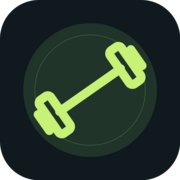
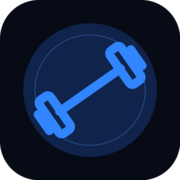
feat: match prototype session picker

diff --git a/frontend/src/style.css b/frontend/src/style.css
@@ -1,22 +1,22 @@
 :root {
   font-family: 'DM Sans', sans-serif;
   color: #f5f6f4;
-  background: #0a0d12;
+  background: #05080e;
   font-synthesis: none;
 }
 * { box-sizing: border-box; }
-html { background: #0a0d12; }
-body { margin: 0; color: #f5f6f4; background: #0a0d12; }
+html { background: #05080e; }
+body { margin: 0; color: #f5f6f4; background: #05080e; }
 button, input, textarea { font: inherit; }
 button { cursor: pointer; -webkit-tap-highlight-color: transparent; }
 h1, h2, h3, strong, .app-header-logo { font-family: Outfit, sans-serif; }
 h1, h2, h3 { letter-spacing: -.04em; }
-button:focus-visible, input:focus-visible, textarea:focus-visible { outline: 2px solid #c7f276; outline-offset: 3px; }
+button:focus-visible, input:focus-visible, textarea:focus-visible { outline: 2px solid #3685ff; outline-offset: 3px; }
 
-.app-shell { min-height: 100dvh; background: #0a0d12; }
-.main-column { width: min(100%, 560px); min-height: 100dvh; margin: auto; background: #10151b; box-shadow: 0 0 90px #0006; }
+.app-shell { min-height: 100dvh; background: #05080e; }
+.main-column { width: min(100%, 560px); min-height: 100dvh; margin: auto; background: radial-gradient(circle at 55% 14%, #10213d 0, #080e18 30%, #04070c 70%); box-shadow: 0 0 90px #0009; }
 .app-header {
-  height: calc(66px + env(safe-area-inset-top));
+  height: calc(72px + env(safe-area-inset-top));
   padding: env(safe-area-inset-top) 20px 0;
   display: flex;
   align-items: center;
@@ -24,22 +24,23 @@ button:focus-visible, input:focus-visible, textarea:focus-visible { outline: 2px
   position: sticky;
   top: 0;
   z-index: 10;
-  background: #10151bec;
-  border-bottom: 1px solid #252e36;
+  background: #050a13d9;
+  border-bottom: 0;
   -webkit-backdrop-filter: blur(18px);
   backdrop-filter: blur(18px);
 }
-.app-header-logo { display: flex; align-items: center; gap: 10px; font-size: 23px; font-weight: 800; letter-spacing: -.055em; }
-.app-header-logo > span:last-child > span { color: #c7f276; }
-.brand-mark { width: 36px; height: 36px; display: grid; place-items: center; border-radius: 11px; background: #c7f276; color: #122017; }
+.app-header-logo { display: flex; align-items: center; gap: 7px; font-size: 20px; font-weight: 800; letter-spacing: -.055em; }
+.app-header-logo > span:last-child > span { color: #3186ff; }
+.brand-mark { width: 29px; height: 36px; display: grid; place-items: center; color: #3186ff; }
+.profile-mark { width: 38px; height: 38px; display: grid; place-items: center; border: 1px solid #374257; border-radius: 50%; color: #e1e9f3; }
 .header-back { width: 42px; height: 42px; border: 1px solid #35404a; border-radius: 12px; background: #1b222a; color: #edf1ed; display: grid; place-items: center; }
 .header-back:active { transform: scale(.96); }
 .app-header-title { font-family: Outfit, sans-serif; font-size: 15px; font-weight: 700; }
 .header-end { width: 42px; }
 .content { padding: 23px 20px calc(36px + env(safe-area-inset-bottom)); }
-.home-content { padding-top: 0; padding-bottom: calc(15px + env(safe-area-inset-bottom)); }
+.home-content { padding-top: 0; padding-bottom: calc(22px + env(safe-area-inset-bottom)); }
 .loading { min-height: 50dvh; display: grid; place-items: center; text-align: center; color: #aab4b4; font-size: 14px; }
-.eyebrow { margin-bottom: 10px; color: #c7f276; font-size: 10px; font-weight: 900; letter-spacing: .17em; }
+.eyebrow { margin-bottom: 10px; color: #3989ff; font-size: 10px; font-weight: 900; letter-spacing: .17em; }
 .muted { color: #9ca8af !important; }
 .app-alert { background: #3c292e; border: 1px solid #7c4850; color: #ffd3d7; border-radius: 12px; font-size: 13px; }
 .icon-button { border: 0; background: transparent; color: #aab5bc; display: inline-grid; place-items: center; min-width: 44px; min-height: 44px; border-radius: 10px; }
@@ -47,42 +48,40 @@ button:focus-visible, input:focus-visible, textarea:focus-visible { outline: 2px
 .icon-button:disabled { opacity: .35; }
 .btn { display: inline-flex; align-items: center; justify-content: center; gap: 9px; min-height: 48px; border-radius: 12px; padding: 11px 15px; font-size: 13px; font-weight: 800; }
 .btn:disabled { opacity: .55; }
-.btn-accent { border: 1px solid #c7f276; background: #c7f276; color: #172119; }
-.btn-accent:active, .btn-accent:hover { border-color: #d8ff92; background: #d8ff92; color: #172119; }
+.btn-accent { border: 1px solid #3387ff; background: #3387ff; color: #fff; }
+.btn-accent:active, .btn-accent:hover { border-color: #66a5ff; background: #66a5ff; color: #fff; }
 .btn-ghost { border: 1px solid #35404b; background: #222b34; color: #eef2f1; }
 .btn-ghost:active, .btn-ghost:hover { background: #303b46; color: #fff; }
 .btn-sm { min-height: 42px; padding: 9px 13px; font-size: 12px; }
 
-.entry-screen { min-height: calc(100dvh - 66px - env(safe-area-inset-top) - env(safe-area-inset-bottom)); display: flex; flex-direction: column; }
-.entry-intro { padding: clamp(28px, 5dvh, 55px) 3px 23px; }
-.entry-kicker { display: inline-flex; align-items: center; gap: 8px; color: #bbcfb0; font-size: 10px; font-weight: 900; letter-spacing: .15em; }
-.entry-kicker-dot { width: 7px; height: 7px; border-radius: 50%; background: #c7f276; box-shadow: 0 0 12px #bdec70; }
-.entry-intro h1 { margin: 20px 0 12px; font-size: clamp(42px, 11vw, 58px); line-height: .98; font-weight: 700; letter-spacing: -.065em; }
-.entry-intro h1 em { font-style: normal; color: #c7f276; }
-.entry-intro p { color: #a8b2b9; margin: 0; font-size: 14px; }
-.entry-options { display: grid; gap: 13px; }
-.entry-option { position: relative; overflow: hidden; min-height: 198px; width: 100%; border-radius: 22px; border: 1px solid; text-align: left; padding: 20px 21px 17px; color: #f8faf6; display: flex; flex-direction: column; justify-content: space-between; isolation: isolate; transition: transform .18s, border-color .18s; }
+.entry-screen { min-height: calc(100dvh - 72px - env(safe-area-inset-top) - env(safe-area-inset-bottom)); display: flex; flex-direction: column; }
+.entry-intro { padding: clamp(24px, 4dvh, 38px) 0 26px; text-align: center; }
+.entry-kicker { color: #a4afc2; font-size: 9px; font-weight: 800; letter-spacing: .25em; }
+.entry-intro h1 { margin: 9px 0 4px; font-size: clamp(39px, 11vw, 51px); line-height: 1.02; font-weight: 800; letter-spacing: -.07em; }
+.entry-intro h1 span { color: #3186ff; }
+.entry-intro p { margin: 0; color: #aab5c5; font-size: 12px; }
+.entry-options { display: grid; gap: 15px; }
+.entry-option { position: relative; isolation: isolate; overflow: hidden; display: flex; flex-direction: column; justify-content: space-between; width: 100%; min-height: clamp(180px, 24dvh, 210px); padding: 24px 19px 18px; border: 1.5px solid; border-radius: 21px; color: #fff; text-align: left; background-size: cover; background-position: center; box-shadow: 0 16px 30px #0009; transition: transform .18s ease, box-shadow .18s ease; }
 .entry-option:active { transform: scale(.985); }
-.entry-option::before, .entry-option::after { content: ''; position: absolute; border-radius: 50%; z-index: -1; pointer-events: none; }
-.entry-option::before { width: 210px; height: 210px; right: -96px; top: -120px; border: 1px solid currentColor; opacity: .17; }
-.entry-option::after { width: 150px; height: 150px; right: -64px; top: -82px; border: 1px solid currentColor; opacity: .23; }
-.entry-training { background: linear-gradient(125deg, #293c2d, #1b2925 62%, #17201d); border-color: #59734b; }
-.entry-history { background: linear-gradient(125deg, #302e48, #23243c 62%, #1c1e31); border-color: #555374; }
-.entry-option-top, .entry-option-action { display: flex; align-items: center; justify-content: space-between; width: 100%; }
-.entry-option-icon { display: grid; place-items: center; width: 43px; height: 43px; border-radius: 13px; }
-.entry-training .entry-option-icon { color: #d3fa89; background: #425b38; }
-.entry-history .entry-option-icon { color: #cdc4ff; background: #444061; }
-.entry-option-number { color: #aebca9; font-size: 10px; font-weight: 800; letter-spacing: .12em; }
-.entry-history .entry-option-number { color: #b6b2d0; }
+.entry-option::before { content: ''; position: absolute; inset: 0; z-index: -1; pointer-events: none; }
+.entry-training { border-color: #1c72ff; background-image: url('/training-card.jpg'); box-shadow: 0 0 0 1px #1266e63b, 0 16px 35px #001b4d7a; }
+.entry-training::before { background: linear-gradient(90deg, #071226e8 0%, #06142ace 42%, #04112652 100%), linear-gradient(0deg, #061022ed 0%, transparent 75%); }
+.entry-history { border-color: #ff883e; background-image: url('/history-card.jpg'); box-shadow: 0 0 0 1px #ff883e3b, 0 16px 35px #3816048a; }
+.entry-history::before { background: linear-gradient(90deg, #1b0f0ae8 0%, #1b0f0acb 42%, #170b0752 100%), linear-gradient(0deg, #130a07ed 0%, transparent 75%); }
+.entry-option-icon { display: grid; place-items: center; width: 57px; height: 57px; border-radius: 50%; flex: none; }
+.entry-training .entry-option-icon { background: #0d377e; color: #fff; }
+.entry-history .entry-option-icon { background: #7c3619; color: #fff; }
+.entry-option-bottom { display: flex; align-items: flex-end; justify-content: space-between; gap: 8px; width: 100%; }
+.entry-option-copy { display: block; min-width: 0; max-width: 225px; }
 .entry-option-copy strong, .entry-option-copy small { display: block; }
-.entry-option-copy strong { font-size: 27px; font-weight: 700; line-height: 1.1; }
-.entry-option-copy small { color: #b8c6b7; font-size: 12px; margin-top: 5px; line-height: 1.35; }
-.entry-history .entry-option-copy small { color: #c1bed3; }
-.entry-option-action { padding-top: 12px; border-top: 1px solid #ffffff25; color: #d5fa95; font-size: 10px; font-weight: 900; letter-spacing: .11em; }
-.entry-history .entry-option-action { color: #d4cbff; }
-.entry-footer { display: flex; align-items: center; gap: 9px; margin-top: auto; padding: 22px 0 6px; }
-.entry-footer span { height: 1px; background: #344038; flex: 1; }
-.entry-footer p { color: #6c7c7a; font-size: 8px; letter-spacing: .11em; white-space: nowrap; margin: 0; font-weight: 800; }
+.entry-option-copy strong { font-size: clamp(23px, 6vw, 28px); font-weight: 800; line-height: 1.08; letter-spacing: -.055em; white-space: nowrap; }
+.entry-option-copy strong em { font-style: normal; }
+.entry-training .entry-option-copy strong em { color: #3186ff; }
+.entry-history .entry-option-copy strong em { color: #ff8c45; }
+.entry-option-copy small { margin-top: 7px; color: #e0e5ec; font-size: 11px; line-height: 1.36; }
+.entry-option-arrow { display: grid; place-items: center; width: 36px; height: 36px; flex: none; border-radius: 50%; color: #fff; }
+.entry-training .entry-option-arrow { background: #0e438f; }
+.entry-history .entry-option-arrow { background: #7f391d; }
 
 .page-heading { display: flex; flex-direction: column; align-items: flex-start; gap: 15px; margin: 5px 0 23px; }
 .page-heading h1 { margin: 0 0 6px; font-size: clamp(31px, 8vw, 42px); line-height: 1.04; font-weight: 700; }
@@ -93,7 +92,7 @@ button:focus-visible, input:focus-visible, textarea:focus-visible { outline: 2px
 .panel h2, .panel-heading h2 { margin: 0; font-size: 20px; font-weight: 700; }
 .panel-heading .eyebrow { margin-bottom: 6px; }
 .empty-state { min-height: 330px; border: 1px dashed #43504c; background: #192229; border-radius: 18px; padding: 25px; text-align: center; display: flex; flex-direction: column; align-items: center; justify-content: center; }
-.empty-icon { width: 64px; height: 64px; margin-bottom: 17px; display: grid; place-items: center; border-radius: 18px; background: #334a33; color: #c7f276; }
+.empty-icon { width: 64px; height: 64px; margin-bottom: 17px; display: grid; place-items: center; border-radius: 18px; background: #102d55; color: #62a7ff; }
 .empty-state h3 { font-size: 21px; }
 .empty-state p { color: #a4b0b5; font-size: 13px; }
 .empty-state .btn { width: 100%; }
@@ -101,70 +100,70 @@ button:focus-visible, input:focus-visible, textarea:focus-visible { outline: 2px
 
 .plan-card { height: 100%; display: flex; flex-direction: column; padding: 21px; border: 1px solid #34404a; background: #1a232b; border-radius: 17px; }
 .plan-top { display: flex; justify-content: space-between; align-items: center; margin-bottom: 16px; }
-.plan-symbol, .start-icon { display: grid; place-items: center; width: 49px; height: 49px; border-radius: 13px; color: #c7f276; background: #354b32; }
-.plan-count { border: 1px solid #465b42; border-radius: 30px; padding: 7px 9px; color: #c6d8b9; font-size: 10px; }
+.plan-symbol, .start-icon { display: grid; place-items: center; width: 49px; height: 49px; border-radius: 13px; color: #65a7ff; background: #143666; }
+.plan-count { border: 1px solid #315686; border-radius: 30px; padding: 7px 9px; color: #b6d5ff; font-size: 10px; }
 .plan-card h3 { margin: 0; font-size: 24px; }
 .plan-card > p { color: #a0adb3; font-size: 12px; margin: 7px 0 14px; }
 .exercise-preview { padding: 12px 0; border-top: 1px solid #35424b; border-bottom: 1px solid #35424b; margin-bottom: 14px; }
 .exercise-preview div { display: flex; align-items: center; gap: 8px; margin: 8px 0; color: #e0e7e3; font-size: 12px; }
 .exercise-preview div span:last-child { margin-left: auto; color: #a0adb3; }
 .exercise-preview small { color: #a0adb3; margin-left: 14px; }
-.mini-dot { width: 6px; height: 6px; border-radius: 50%; background: #c7f276; flex: none; }
+.mini-dot { width: 6px; height: 6px; border-radius: 50%; background: #3989ff; flex: none; }
 .plan-actions { display: flex; align-items: center; gap: 7px; }
 .plan-actions .btn { margin-right: auto; }
-.start-card { width: 100%; min-height: 190px; display: flex; flex-direction: column; align-items: flex-start; text-align: left; border-radius: 18px; border: 1px solid #37454a; background: linear-gradient(130deg, #25352d, #19242a 65%); color: #fff; padding: 22px; }
+.start-card { width: 100%; min-height: 190px; display: flex; flex-direction: column; align-items: flex-start; text-align: left; border-radius: 18px; border: 1px solid #31527f; background: linear-gradient(130deg, #173664, #111c30 65%); color: #fff; padding: 22px; }
 .start-card:active { transform: scale(.985); }
 .start-title { font-family: Outfit, sans-serif; font-size: 25px; font-weight: 700; letter-spacing: -.04em; margin-top: 15px; }
 .start-card .muted { font-size: 12px; }
-.start-bottom { display: flex; align-items: center; gap: 8px; margin-top: auto; color: #c7f276; font-size: 12px; font-weight: 800; }
+.start-bottom { display: flex; align-items: center; gap: 8px; margin-top: auto; color: #74b1ff; font-size: 12px; font-weight: 800; }
 
 .editor-layout { width: 100%; }
 .form-panel { margin-bottom: 14px; }
 .form-section-title { display: flex; gap: 12px; margin-bottom: 19px; }
-.number-badge { background: #3b5535; color: #c7f276; border-radius: 9px; padding: 8px 10px; height: fit-content; font-size: 12px; font-weight: 800; }
+.number-badge { background: #15386b; color: #8dbfff; border-radius: 9px; padding: 8px 10px; height: fit-content; font-size: 12px; font-weight: 800; }
 .form-section-title h2 { margin: 0 0 4px; }
 .form-section-title p { color: #9aa8ae; font-size: 12px; margin: 0; }
 .form-label { color: #d0d9da; font-size: 12px; font-weight: 800; margin-bottom: 6px; }
 .optional { color: #89969d; font-weight: 500; }
 .form-control { min-height: 48px; background: #212b34; border: 1px solid #3d4a54; border-radius: 10px; color: #fff; font-size: 16px; }
-.form-control:focus { background: #26333b; color: #fff; border-color: #a6d968; box-shadow: 0 0 0 3px #c7f27622; }
+.form-control:focus { background: #26333b; color: #fff; border-color: #408dff; box-shadow: 0 0 0 3px #3387ff33; }
 .form-control::placeholder { color: #798891; }
 .editor-layout .col-md-7 { width: 100%; }
 .exercise-form { background: #202b33; border: 1px solid #3b4852; border-radius: 13px; padding: 16px; margin-bottom: 12px; }
-.exercise-form-header { display: flex; align-items: center; justify-content: space-between; color: #c7f276; font-size: 10px; font-weight: 900; letter-spacing: .13em; margin-bottom: 11px; }
-.add-exercise { width: 100%; min-height: 48px; display: flex; align-items: center; justify-content: center; gap: 8px; border: 1px dashed #7b9864; border-radius: 11px; background: #2a392e; color: #d0f292; font-size: 13px; font-weight: 800; }
+.exercise-form-header { display: flex; align-items: center; justify-content: space-between; color: #79b3ff; font-size: 10px; font-weight: 900; letter-spacing: .13em; margin-bottom: 11px; }
+.add-exercise { width: 100%; min-height: 48px; display: flex; align-items: center; justify-content: center; gap: 8px; border: 1px dashed #447bc0; border-radius: 11px; background: #142b47; color: #9ac7ff; font-size: 13px; font-weight: 800; }
 .editor-actions { display: flex; gap: 9px; margin-top: 5px; }
 .editor-actions .btn { flex: 1; }
 .field-error { color: #ffc1c7; font-size: 12px; margin: 9px 0 0; }
 
-.live-badge { display: inline-flex; align-items: center; gap: 7px; border-radius: 8px; padding: 7px 10px; color: #d2f796; background: #30422f; border: 1px solid #638153; font-size: 10px; font-weight: 900; letter-spacing: .09em; }
-.live-badge span { width: 7px; height: 7px; border-radius: 50%; background: #c7f276; box-shadow: 0 0 8px #c7f276; }
-.progress-panel { border: 1px solid #425e40; background: #203025; border-radius: 13px; padding: 15px 17px; margin-bottom: 14px; }
+.live-badge { display: inline-flex; align-items: center; gap: 7px; border-radius: 8px; padding: 7px 10px; color: #a8d0ff; background: #122d52; border: 1px solid #3365a4; font-size: 10px; font-weight: 900; letter-spacing: .09em; }
+.live-badge span { width: 7px; height: 7px; border-radius: 50%; background: #3989ff; box-shadow: 0 0 8px #3989ff; }
+.progress-panel { border: 1px solid #305985; background: #122740; border-radius: 13px; padding: 15px 17px; margin-bottom: 14px; }
 .progress-copy { display: flex; justify-content: space-between; gap: 10px; margin-bottom: 11px; color: #acbcb1; font-size: 11px; }
-.progress-copy strong { color: #d0f68e; text-align: right; }
-.progress { height: 6px; background: #3e503f; }
-.progress-bar { background: #c7f276; border-radius: 8px; }
+.progress-copy strong { color: #91c2ff; text-align: right; }
+.progress { height: 6px; background: #2b4262; }
+.progress-bar { background: #3989ff; border-radius: 8px; }
 .training-grid { display: grid; grid-template-columns: minmax(0,1fr); gap: 13px; }
 .exercise-sidebar { display: flex; align-items: stretch; gap: 8px; overflow-x: auto; padding: 10px; scrollbar-width: none; }
 .exercise-sidebar::-webkit-scrollbar { display: none; }
 .exercise-sidebar .eyebrow, .exercise-sidebar > .btn { display: none; }
 .exercise-step { min-width: 151px; max-width: 180px; display: flex; align-items: center; gap: 8px; background: #202d32; border: 1px solid #34434a; border-radius: 11px; padding: 9px; color: #d1d9d7; text-align: left; }
-.exercise-step.selected { background: #324b35; border-color: #7aa366; color: #fff; }
+.exercise-step.selected { background: #1c3f70; border-color: #4d8edf; color: #fff; }
 .step-number { width: 30px; height: 30px; flex: none; display: grid; place-items: center; border-radius: 8px; background: #37434b; color: #aebec1; font-size: 11px; font-weight: 800; }
-.exercise-step.selected .step-number { background: #c7f276; color: #172419; }
+.exercise-step.selected .step-number { background: #3989ff; color: #fff; }
 .exercise-step strong, .exercise-step small { display: block; }
 .exercise-step strong { line-height: 1.25; font-size: 11px; }
 .exercise-step small { color: #a3b0b0; font-size: 10px; margin-top: 3px; }
-.exercise-hero { margin-bottom: 13px; background: linear-gradient(115deg, #273b2d, #1b2928 70%); border-color: #476344; }
+.exercise-hero { margin-bottom: 13px; background: linear-gradient(115deg, #17365d, #182737 70%); border-color: #365e91; }
 .exercise-hero-top, .target-line { display: flex; align-items: center; justify-content: space-between; gap: 10px; }
 .exercise-hero-top .muted { font-size: 11px; }
-.pill { border-radius: 7px; padding: 6px 8px; color: #d3f792; background: #3d5838; font-size: 10px; font-weight: 900; letter-spacing: .08em; }
+.pill { border-radius: 7px; padding: 6px 8px; color: #a7d0ff; background: #1c4779; font-size: 10px; font-weight: 900; letter-spacing: .08em; }
 .exercise-hero h2 { font-size: 27px; margin: 17px 0; }
-.target-line { padding-top: 13px; border-top: 1px solid #476044; color: #c9dac8; font-size: 11px; }
+.target-line { padding-top: 13px; border-top: 1px solid #315782; color: #c9d9e8; font-size: 11px; }
 .target-line span:first-child { display: inline-flex; align-items: center; gap: 6px; }
-.recommendation { display: flex; gap: 13px; padding: 16px; margin-bottom: 13px; border: 1px solid #688354; border-radius: 13px; background: #33432f; }
-.rec-icon { color: #c7f276; }
-.rec-label { display: block; margin-bottom: 5px; color: #c0e685; font-size: 10px; font-weight: 900; letter-spacing: .12em; }
+.recommendation { display: flex; gap: 13px; padding: 16px; margin-bottom: 13px; border: 1px solid #3b6da8; border-radius: 13px; background: #19365a; }
+.rec-icon { color: #6aabff; }
+.rec-label { display: block; margin-bottom: 5px; color: #8bbdff; font-size: 10px; font-weight: 900; letter-spacing: .12em; }
 .recommendation strong { font-size: 17px; }
 .recommendation p { color: #c0cebd; margin: 6px 0 0; font-size: 12px; line-height: 1.5; }
 .sets-panel, .previous-panel { margin-bottom: 13px; }
@@ -175,14 +174,14 @@ button:focus-visible, input:focus-visible, textarea:focus-visible { outline: 2px
 .app-table tbody tr:last-child td { border-bottom: 0; }
 .app-table strong { color: #fff; }
 .previous-panel .app-table { min-width: 320px; }
-.set-kind { display: inline-block; border-radius: 6px; padding: 5px 6px; color: #d4f59c; background: #354b33; font-size: 10px; }
+.set-kind { display: inline-block; border-radius: 6px; padding: 5px 6px; color: #b2d7ff; background: #1c436e; font-size: 10px; }
 .set-kind.warmup { color: #d6ceff; background: #403c5a; }
 .set-form { padding-top: 17px; margin-top: 15px; border-top: 1px solid #384650; }
 .set-toggle { display: inline-flex; margin-bottom: 13px; padding: 3px; border-radius: 9px; background: #111b21; }
 .set-toggle button { min-height: 36px; padding: 7px 11px; border: 0; border-radius: 7px; background: transparent; color: #9faeb4; font-size: 11px; font-weight: 800; }
-.set-toggle button.active { color: #dcf5ac; background: #3c5439; }
+.set-toggle button.active { color: #b2d7ff; background: #1d4778; }
 .set-form .col-md-3, .set-form .col-md-2, .set-form .col-md-4 { width: 50%; }
-.exercise-navigation { position: sticky; bottom: 0; z-index: 3; display: flex; gap: 9px; padding: 12px 0 calc(10px + env(safe-area-inset-bottom)); background: linear-gradient(180deg, #10151b00, #10151b 24%); }
+.exercise-navigation { position: sticky; bottom: 0; z-index: 3; display: flex; gap: 9px; padding: 12px 0 calc(10px + env(safe-area-inset-bottom)); background: linear-gradient(180deg, #05080e00, #05080e 24%); }
 .exercise-navigation .btn { flex: 1; font-size: 12px; }
 .modal-backdrop-custom { position: fixed; inset: 0; z-index: 20; display: flex; align-items: flex-end; justify-content: center; padding: 0; background: #030809c9; }
 .finish-modal { width: min(100%, 560px); max-height: 90dvh; overflow-y: auto; padding: 24px 20px calc(22px + env(safe-area-inset-bottom)); border-radius: 22px 22px 0 0; box-shadow: 0 -20px 50px #0009; }
@@ -199,45 +198,47 @@ button:focus-visible, input:focus-visible, textarea:focus-visible { outline: 2px
 .history-list { display: grid; }
 .history-row { width: 100%; display: flex; align-items: center; gap: 11px; padding: 14px 0; border: 0; border-top: 1px solid #34424b; background: transparent; color: #eaf0eb; text-align: left; }
 .history-row:active { background: #28343c; }
-.history-date { width: 43px; height: 43px; flex: none; display: flex; flex-direction: column; align-items: center; justify-content: center; border: 1px solid #5a7549; border-radius: 10px; background: #314331; color: #d0f494; }
+.history-date { width: 43px; height: 43px; flex: none; display: flex; flex-direction: column; align-items: center; justify-content: center; border: 1px solid #a15e39; border-radius: 10px; background: #4b2a1b; color: #ffac77; }
 .history-date strong { font-size: 18px; line-height: 1; }
 .history-date small { font-size: 9px; text-transform: uppercase; }
 .history-name { flex: 1; min-width: 0; }
 .history-name strong, .history-name small { display: block; }
 .history-name strong { font-size: 14px; overflow: hidden; white-space: nowrap; text-overflow: ellipsis; }
 .history-name small { color: #9ca9ae; font-size: 11px; margin-top: 3px; }
-.history-volume { color: #d1f595; font-size: 11px; font-weight: 900; white-space: nowrap; }
+.history-volume { color: #ffa46b; font-size: 11px; font-weight: 900; white-space: nowrap; }
 .history-row > svg { color: #a7b5b9; flex: none; }
 .stat-card { min-height: 108px; padding: 12px; border: 1px solid #34414a; border-radius: 12px; background: #1d2830; display: flex; flex-direction: column; align-items: flex-start; }
 .stat-icon { width: 26px; height: 26px; display: grid; place-items: center; margin-bottom: 7px; border-radius: 7px; }
-.stat-icon.lime { color: #cbf284; background: #36503a; }
-.stat-icon.purple { color: #d3caff; background: #47415c; }
+.stat-icon.lime { color: #8fc3ff; background: #1b4272; }
+.stat-icon.purple { color: #ffc194; background: #5d3626; }
 .stat-icon.orange { color: #fac291; background: #574334; }
 .stat-card strong { font-size: 20px; line-height: 1.1; white-space: nowrap; }
 .stat-card span:last-child { color: #9ba9ae; font-size: 9px; margin-top: 5px; }
-.back-link { display: flex; align-items: center; gap: 7px; margin: 0 0 17px; padding: 0; border: 0; background: transparent; color: #c4dbb7; font-size: 12px; font-weight: 800; }
+.back-link { display: flex; align-items: center; gap: 7px; margin: 0 0 17px; padding: 0; border: 0; background: transparent; color: #ffac77; font-size: 12px; font-weight: 800; }
 .detail-exercise, .notes-panel { margin-bottom: 12px; }
 .detail-exercise .panel-heading .muted { font-size: 10px; }
 .notes-panel p { margin: 0; color: #d9e2df; font-size: 13px; white-space: pre-wrap; }
+.view-history .eyebrow, .view-session .eyebrow { color: #ff914d; }
+.view-history .empty-icon { background: #512d1d; color: #ff9b5c; }
+.view-history .btn-accent, .view-session .btn-accent { border-color: #f5843d; background: #f5843d; }
+.view-history .btn-accent:active, .view-session .btn-accent:active { border-color: #ff9d5e; background: #ff9d5e; }
 
 @media (max-width: 365px) {
-  .entry-intro h1 { font-size: 41px; }
-  .entry-option { min-height: 187px; }
+  .entry-option-copy strong { font-size: 22px; }
+  .entry-option-copy small { font-size: 10px; }
   .history-volume { display: none; }
   .target-line { flex-wrap: wrap; }
   .exercise-navigation .btn { padding-inline: 8px; }
 }
 @media (max-height: 740px) {
-  .entry-intro { padding-top: 18px; padding-bottom: 16px; }
-  .entry-intro h1 { font-size: 40px; margin: 13px 0 7px; }
-  .entry-option { min-height: 170px; padding: 16px; }
-  .entry-option-icon { width: 36px; height: 36px; }
+  .entry-intro { padding-top: 24px; padding-bottom: 26px; }
+  .entry-option { padding: 17px; }
+  .entry-option-icon { width: 48px; height: 48px; }
   .entry-option-copy strong { font-size: 23px; }
-  .entry-footer { padding-top: 12px; }
 }
 @media (min-width: 600px) {
   .main-column { border-inline: 1px solid #29323a; }
-  .entry-intro h1 { font-size: 58px; }
+  .entry-intro h1 { font-size: 51px; }
 }
 @media (prefers-reduced-motion: reduce) {
   *, *::before, *::after { scroll-behavior: auto !important; transition-duration: .01ms !important; animation-duration: .01ms !important; }

diff --git a/frontend/src/main.jsx b/frontend/src/main.jsx
@@ -16,6 +16,8 @@ function Icon({ name, size = 20 }) {
     dumbbell: <><path d="m6.5 6.5 11 11M4 9l5-5M15 20l5-5M2.5 11.5l9-9M12.5 21.5l9-9"/></>,
     history: <><path d="M3 12a9 9 0 1 0 2.6-6.4L3 8"/><path d="M3 3v5h5M12 7v5l3 2"/></>,
     chart: <><path d="M3 19h18M5 16l5-5 4 3 5-8"/><path d="M16 6h3v3"/></>,
+    bars: <><rect x="4" y="12" width="3.5" height="8" rx="1" fill="currentColor" stroke="none"/><rect x="10.25" y="7" width="3.5" height="13" rx="1" fill="currentColor" stroke="none"/><rect x="16.5" y="3" width="3.5" height="17" rx="1" fill="currentColor" stroke="none"/></>,
+    profile: <><circle cx="12" cy="8" r="3"/><path d="M5.5 19c.4-3.1 2.9-5 6.5-5s6.1 1.9 6.5 5H5.5Z"/></>,
     plus: <path d="M12 5v14M5 12h14"/>,
     arrow: <path d="M5 12h14m-6-6 6 6-6 6"/>,
     back: <path d="M19 12H5m6 6-6-6 6-6"/>,
@@ -90,14 +92,14 @@ function App() {
     <div className="main-column">
       <header className="app-header">
         {view === 'home'
-          ? <span className="app-header-logo"><span className="brand-mark"><Icon name="dumbbell" size={20}/></span><span>my<span>Gym</span></span></span>
+          ? <span className="app-header-logo"><span className="brand-mark"><Icon name="dumbbell" size={24}/></span><span>my<span>Gym</span></span></span>
           : <button className="header-back" onClick={() => navigate(view === 'editor' ? 'plans' : view === 'session' ? 'history' : 'home')} aria-label="Voltar"><Icon name="back" size={21}/></button>}
         {view !== 'home' && <span className="app-header-title">{screenName[view]}</span>}
-        <span className="header-end" aria-hidden="true" />
+        {view === 'home' ? <span className="profile-mark" aria-hidden="true"><Icon name="profile" size={22}/></span> : <span className="header-end" aria-hidden="true" />}
       </header>
-      <main className={`content ${view === 'home' ? 'home-content' : ''}`}>
+      <main className={`content view-${view} ${view === 'home' ? 'home-content' : ''}`}>
         {error && <div className="alert app-alert d-flex justify-content-between align-items-start" role="alert"><span>{error}</span><button className="icon-button" onClick={() => setError('')} aria-label="Fechar">×</button></div>}
-        {view === 'home' && <Home active={active} onNavigate={navigate}/>}
+        {view === 'home' && <Home onNavigate={navigate}/>}
         {view !== 'home' && (loading ? <div className="loading">A preparar o teu espaço de treino…</div> : <>
           {view === 'plans' && <Plans plans={plans} busy={busy} onCreate={() => { setEditing(null); navigate('editor') }} onEdit={(plan) => { setEditing(plan); navigate('editor') }} onDelete={deletePlan} onStart={startPlan}/>}
           {view === 'editor' && <PlanEditor plan={editing} busy={busy} onSave={savePlan} onCancel={() => navigate('plans')}/>}
@@ -114,26 +116,23 @@ function Eyebrow({ children }) { return <div className="eyebrow">{children}</div
 function PageHeading({ eyebrow, title, subtitle, action }) { return <div className="page-heading"><div><Eyebrow>{eyebrow}</Eyebrow><h1>{title}</h1>{subtitle && <p>{subtitle}</p>}</div>{action}</div> }
 function Empty({ icon, title, text, action }) { return <div className="empty-state"><div className="empty-icon"><Icon name={icon} size={28}/></div><h3>{title}</h3><p>{text}</p>{action}</div> }
 
-function Home({ active, onNavigate }) {
+function Home({ onNavigate }) {
   return <div className="entry-screen">
     <div className="entry-intro">
-      <span className="entry-kicker"><span className="entry-kicker-dot"/> O TEU ESPAÇO DE TREINO</span>
-      <h1>Que tipo de<br/><em>sessão</em> queres<br/>iniciar?</h1>
-      <p>Escolhe como queres continuar hoje.</p>
+      <span className="entry-kicker">BEM-VINDO(A) À TUA APP</span>
+      <h1>my<span>Gym</span></h1>
+      <p>Treina hoje. Constrói o teu amanhã.</p>
     </div>
-    <div className="entry-options">
+    <div className="entry-options" aria-label="Escolhe o tipo de sessão">
       <button className="entry-option entry-training" onClick={() => onNavigate('train')}>
-        <span className="entry-option-top"><span className="entry-option-icon"><Icon name="bolt" size={28}/></span><span className="entry-option-number">01 / 02</span></span>
-        <span className="entry-option-copy"><strong>Modo Treino</strong><small>{active ? `Continua ${active.planName} e regista as tuas séries.` : 'Segue o teu plano e regista cada série.'}</small></span>
-        <span className="entry-option-action">{active ? 'CONTINUAR TREINO' : 'COMEÇAR TREINO'} <Icon name="arrow" size={20}/></span>
+        <span className="entry-option-icon"><Icon name="dumbbell" size={28}/></span>
+        <span className="entry-option-bottom"><span className="entry-option-copy"><strong>Modo <em>Treino</em></strong><small>Segue o teu plano, regista os teus treinos e alcança os teus objetivos.</small></span><span className="entry-option-arrow"><Icon name="arrow" size={22}/></span></span>
       </button>
       <button className="entry-option entry-history" onClick={() => onNavigate('history')}>
-        <span className="entry-option-top"><span className="entry-option-icon"><Icon name="history" size={27}/></span><span className="entry-option-number">02 / 02</span></span>
-        <span className="entry-option-copy"><strong>Modo Histórico</strong><small>Revê os treinos passados e acompanha a evolução.</small></span>
-        <span className="entry-option-action">VER HISTÓRICO <Icon name="arrow" size={20}/></span>
+        <span className="entry-option-icon"><Icon name="bars" size={28}/></span>
+        <span className="entry-option-bottom"><span className="entry-option-copy"><strong>Modo <em>Histórico</em></strong><small>Revê os teus treinos passados, acompanha a evolução e analisa os resultados.</small></span><span className="entry-option-arrow"><Icon name="arrow" size={22}/></span></span>
       </button>
     </div>
-    <div className="entry-footer"><span/><p>UM TREINO DE CADA VEZ. SEMPRE EM FRENTE.</p><span/></div>
   </div>
 }
 function Stat({ icon, number, label, color }) { return <div className="stat-card"><div className={`stat-icon ${color}`}><Icon name={icon} size={21}/></div><strong>{number}</strong><span>{label}</span></div> }

diff --git a/frontend/index.html b/frontend/index.html
@@ -3,7 +3,7 @@
   <head>
     <meta charset="UTF-8" />
     <meta name="viewport" content="width=device-width, initial-scale=1.0, viewport-fit=cover" />
-    <meta name="theme-color" content="#10151b" />
+    <meta name="theme-color" content="#05080e" />
     <meta name="apple-mobile-web-app-capable" content="yes" />
     <meta name="apple-mobile-web-app-status-bar-style" content="black-translucent" />
     <meta name="apple-mobile-web-app-title" content="myGym" />
